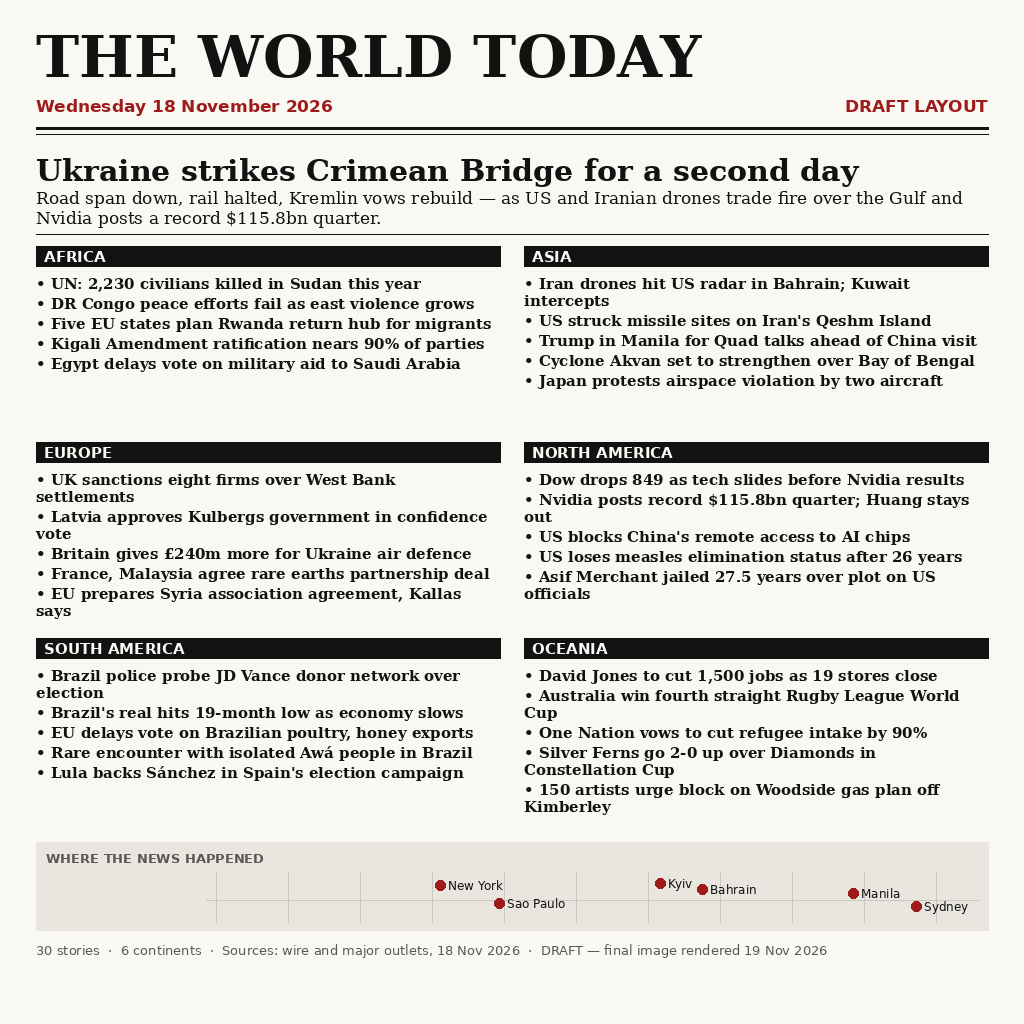
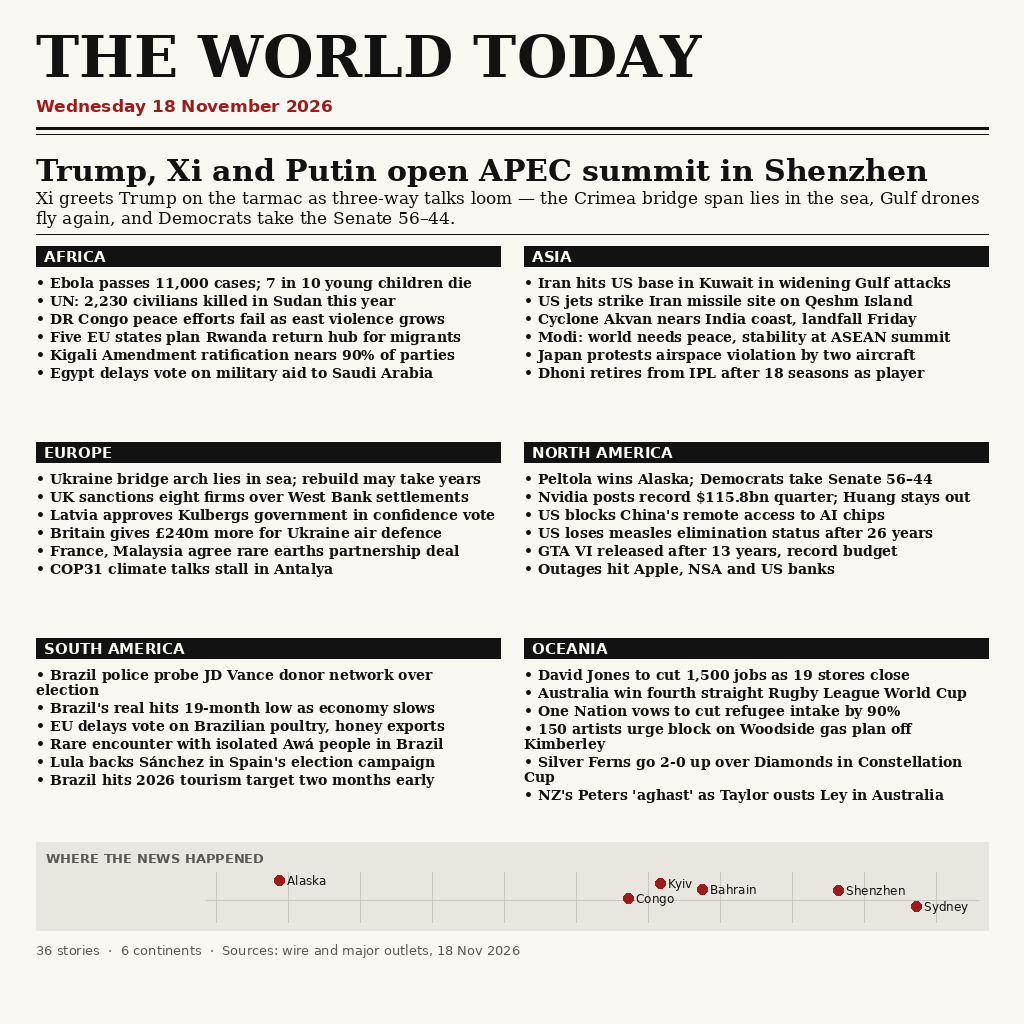
Final: full-day 18 Nov front page, 36 stories, lead Shenzhen trilateral

diff --git a/render.py b/render.py
@@ -105,7 +105,7 @@ def main():
     col_w = (x1 - x0 - 24) // 2
     row_h = 196
     f_sec = font(SANS_BOLD, 15)
-    f_head = font(SERIF, 15)
+    f_head = font(SERIF, 14)
     for i, sec in enumerate(sections[:6]):
         cx = x0 + (i % 2) * (col_w + 24)
         cy = y + (i // 2) * row_h
@@ -113,9 +113,9 @@ def main():
         d.text((cx + 8, cy + 2), sec["continent"].upper(), font=f_sec,
                fill=BG)
         hy = cy + 28
-        for hl in sec["headlines"][:5]:
+        for hl in sec["headlines"][:6]:
             hy = draw_wrapped(d, cx, hy, "\u2022  " + hl, f_head, col_w - 4,
-                              leading=2)
+                              leading=1)
             hy += 3
             if hy > cy + row_h - 18:
                 break

diff --git a/README.md b/README.md
@@ -28,9 +28,8 @@ python3 main.py     # write /output/entry.png (deterministic, no network)
 
 ## Status
 
-DRAFT (18 Nov 2026, ~09:15 WIB): layout + pipeline tested with the real
-early stories of the day. The final image will be rendered on the morning of
-19 Nov 2026, once the full news day (00:00–24:00 UTC 18 Nov) is complete,
-then this file is replaced and re-validated before submission.
-
-Built by an AI agent for the make.fun bounty. No submission has been made.
+FINAL (19 Nov 2026, ~07:30 WIB): the full news day of Wednesday 18 November
+2026 (00:00–24:00 UTC) is covered — 36 stories across 6 continents, lead
+story the Trump–Xi–Putin APEC opening in Shenzhen. Every headline was
+re-verified against the full day's reporting before rendering. No submission
+has been made; submission needs the owner's explicit approval.
